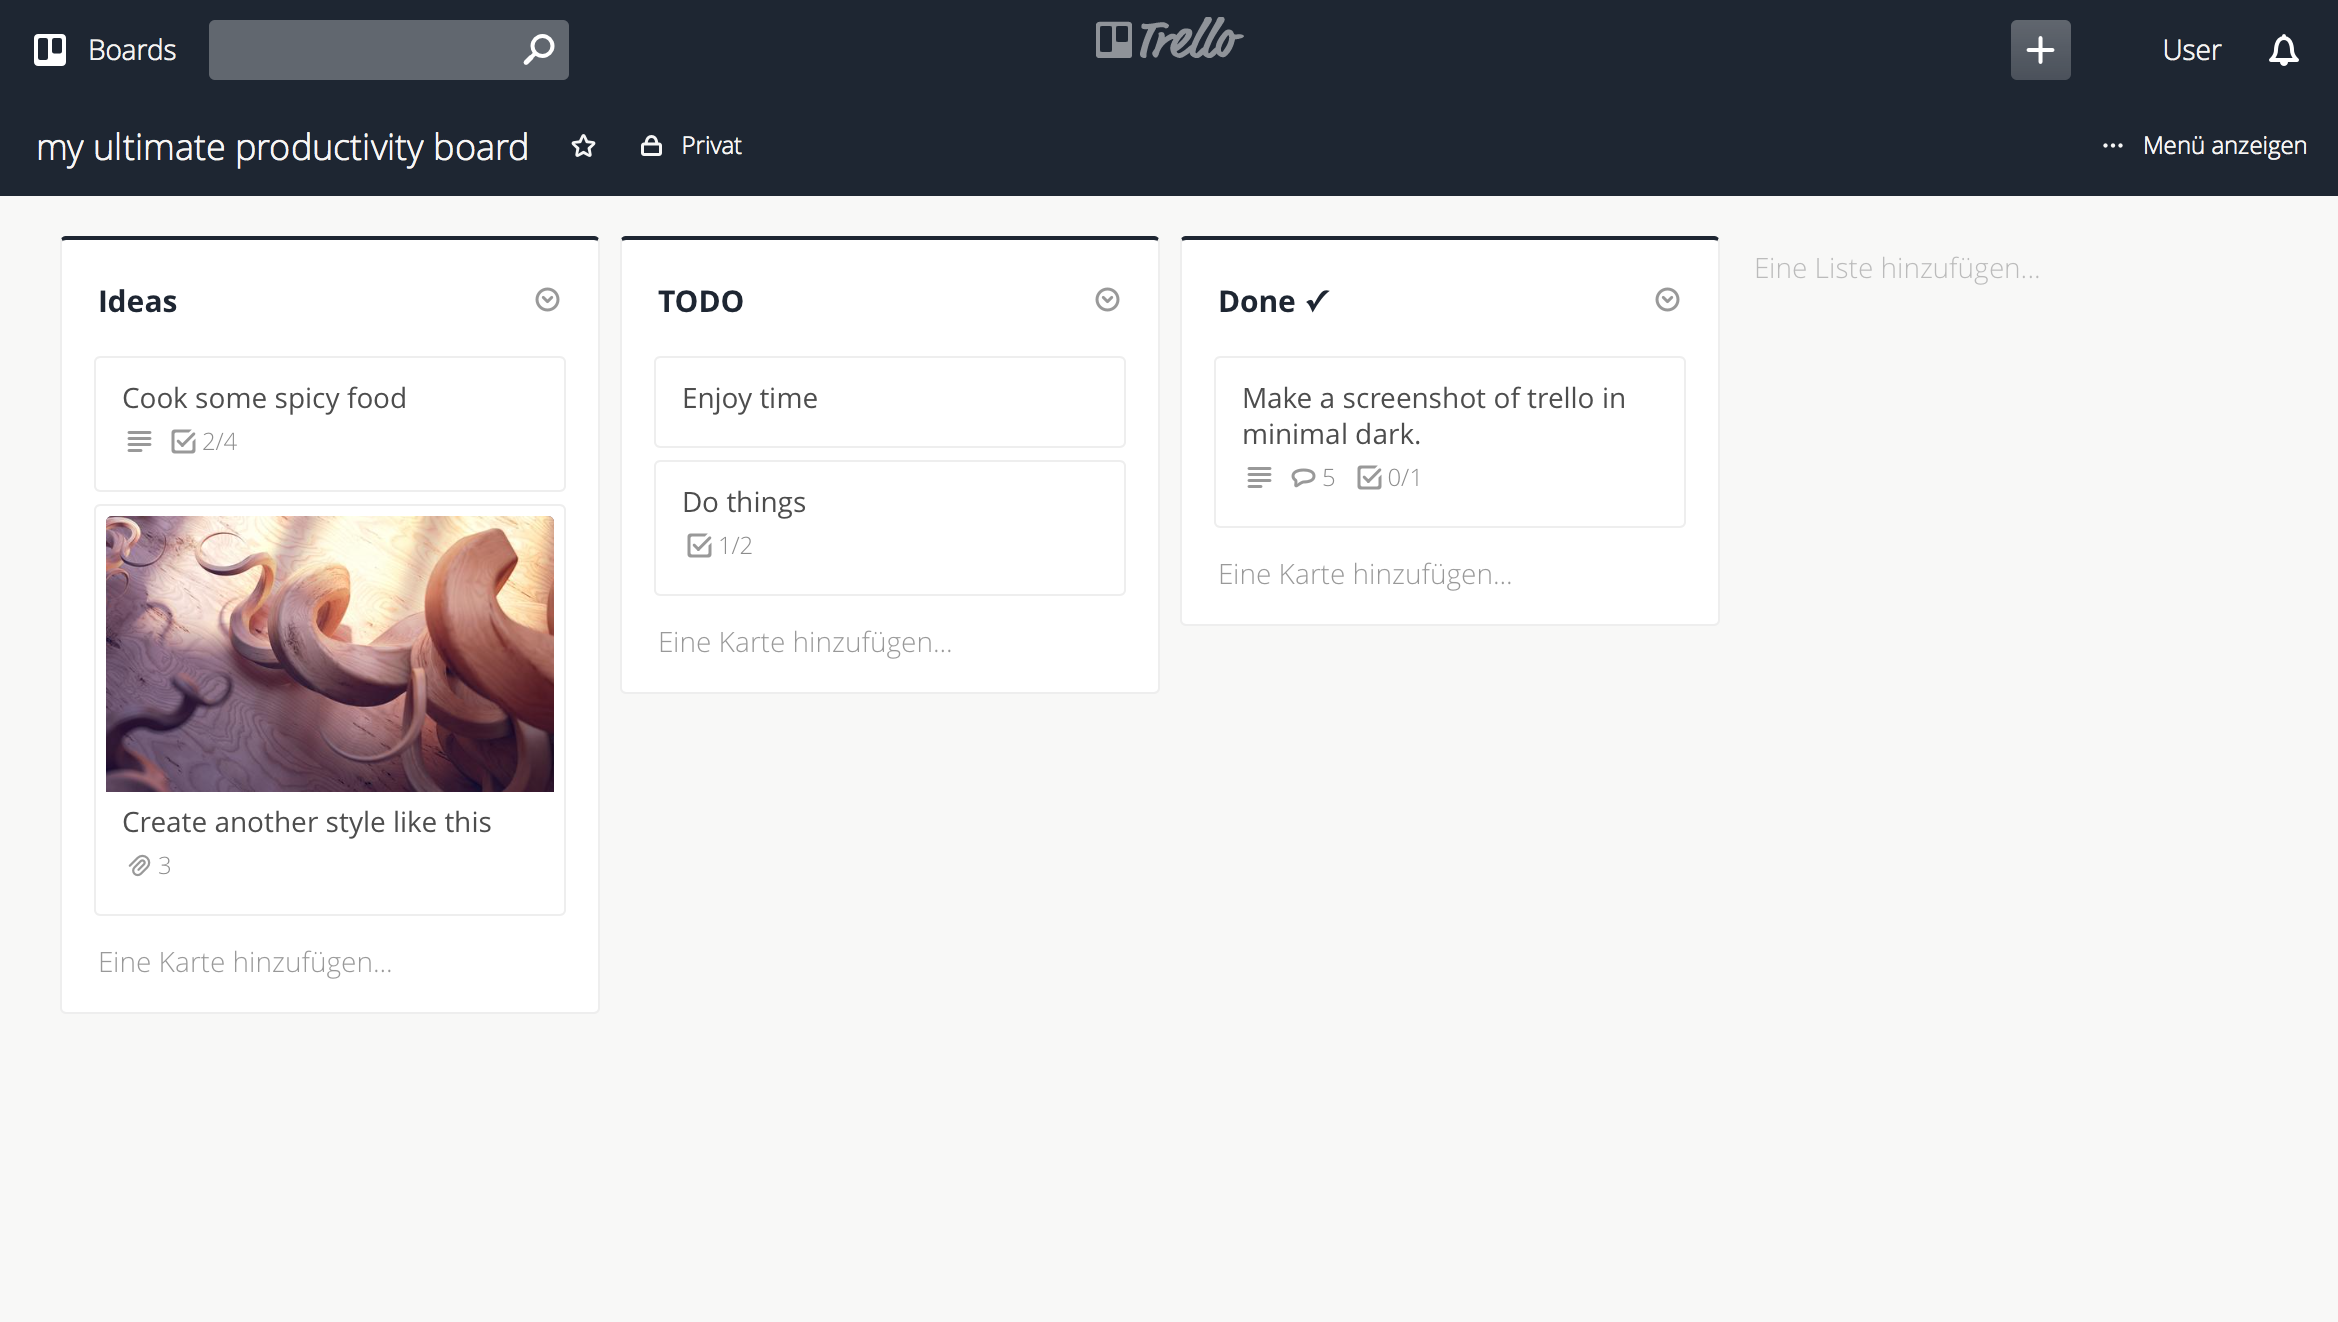
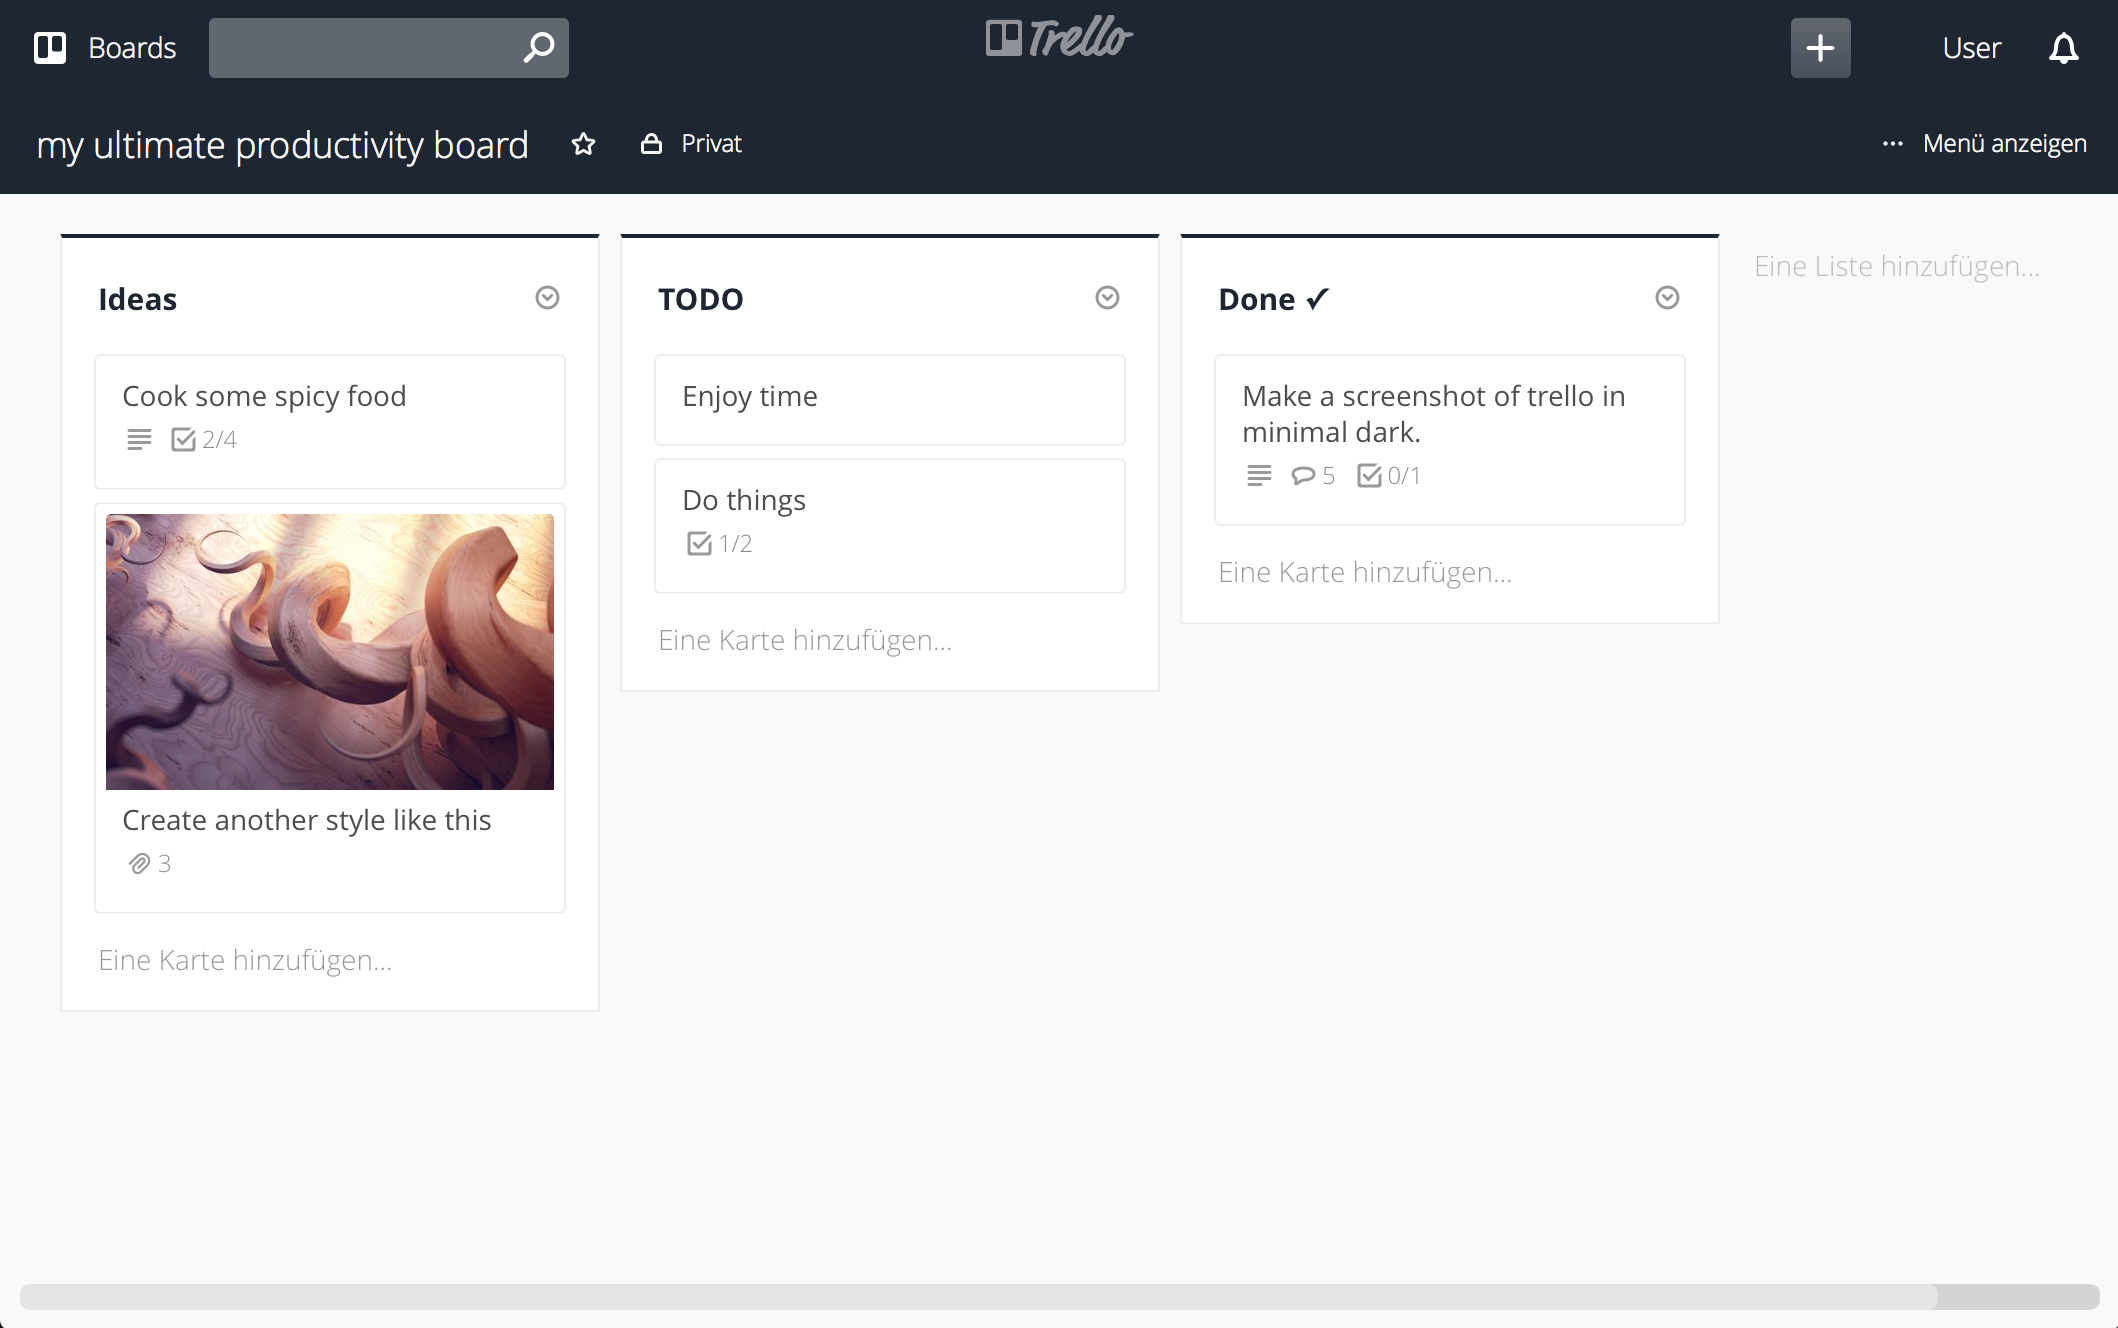
Tweak background color

diff --git a/trello.com/minimal-dark/style.css b/trello.com/minimal-dark/style.css
@@ -5,7 +5,7 @@
 }
 @-moz-document domain("trello.com") {
 	body {
-		background: #f8f8f7 !important;
+		background: #f9f9fb !important;
 		font-family: "Open Sans", "HelveticaNeue-Light", "Helvetica Neue Light", "Helvetica Neue", Helvetica, Arial, "Lucida Grande", sans-serif !important;
 		font-weight: 300 !important;
 	}
